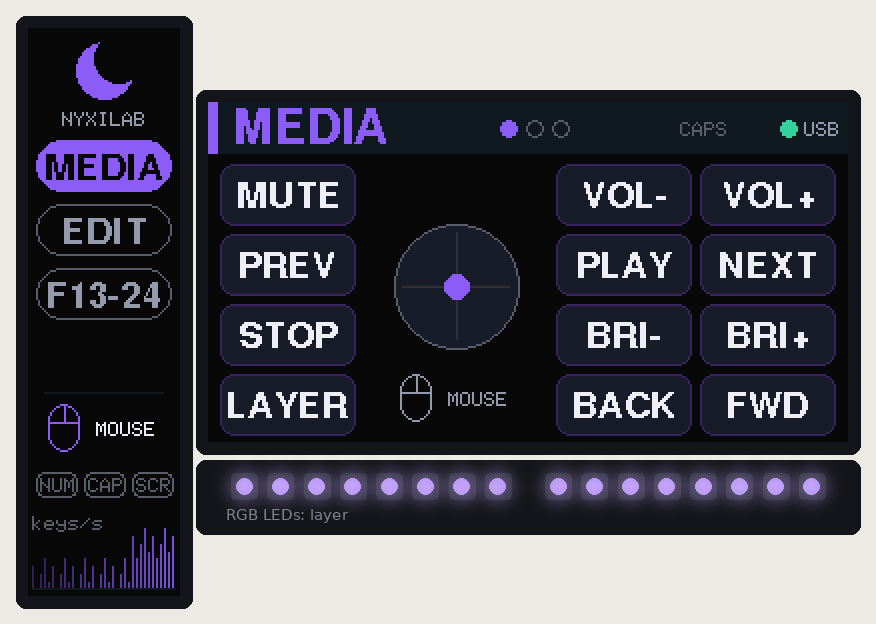
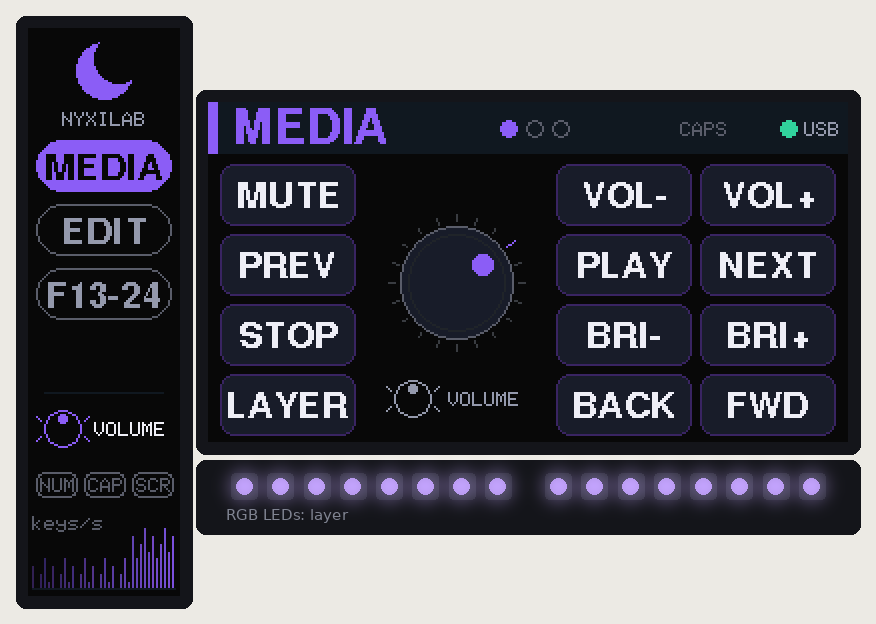
docs(ui): render the knob dial in the rotary edition's UI images
The UI simulator's scenes never set centre_encoder, which KnobCentre::fill_ui()
sets on the device, so every rotary render showed the joystick widget.

diff --git a/rotary/firmware/tools/ui_scenes.cpp b/rotary/firmware/tools/ui_scenes.cpp
@@ -2,27 +2,34 @@
 #include "presets.h"
 #include "ui_sim.h"
 
-void edition_scenes(const char* out) {
+// what KnobCentre::fill_ui() sets on the device: draw the knob dial, not the stick
+static UiState knob_state() {
   UiState s = base_state();
+  s.centre_encoder = true;
+  return s;
+}
+
+void edition_scenes(const char* out) {
+  UiState s = knob_state();
   scene("01_media_idle", s, out);
 
   s.enc_pos = 3;  // turned up three detents: volume up
   scene("02_media_volume", s, out, 60);
 
-  s = base_state();
+  s = knob_state();
   set_layer(s, 1, 1);
   s.leds = 0x02;
   s.enc_pos = -2;
   s.enc_press = true;
   scene("03_edit_history", s, out);
 
-  s = base_state();
+  s = knob_state();
   set_layer(s, 0, 3);
   s.keys_down[3][0] = true;
   s.enc_pos = 7;
   scene("04_fn_bright", s, out);
 
-  s = base_state();
+  s = knob_state();
   set_layer(s, 0, 0);
   s.enc_label = mp::ENC_PRESETS[2].label;  // FN + KNOB picked the ZOOM preset
   s.led_mode = uint8_t(mp::LedMode::Rainbow);
